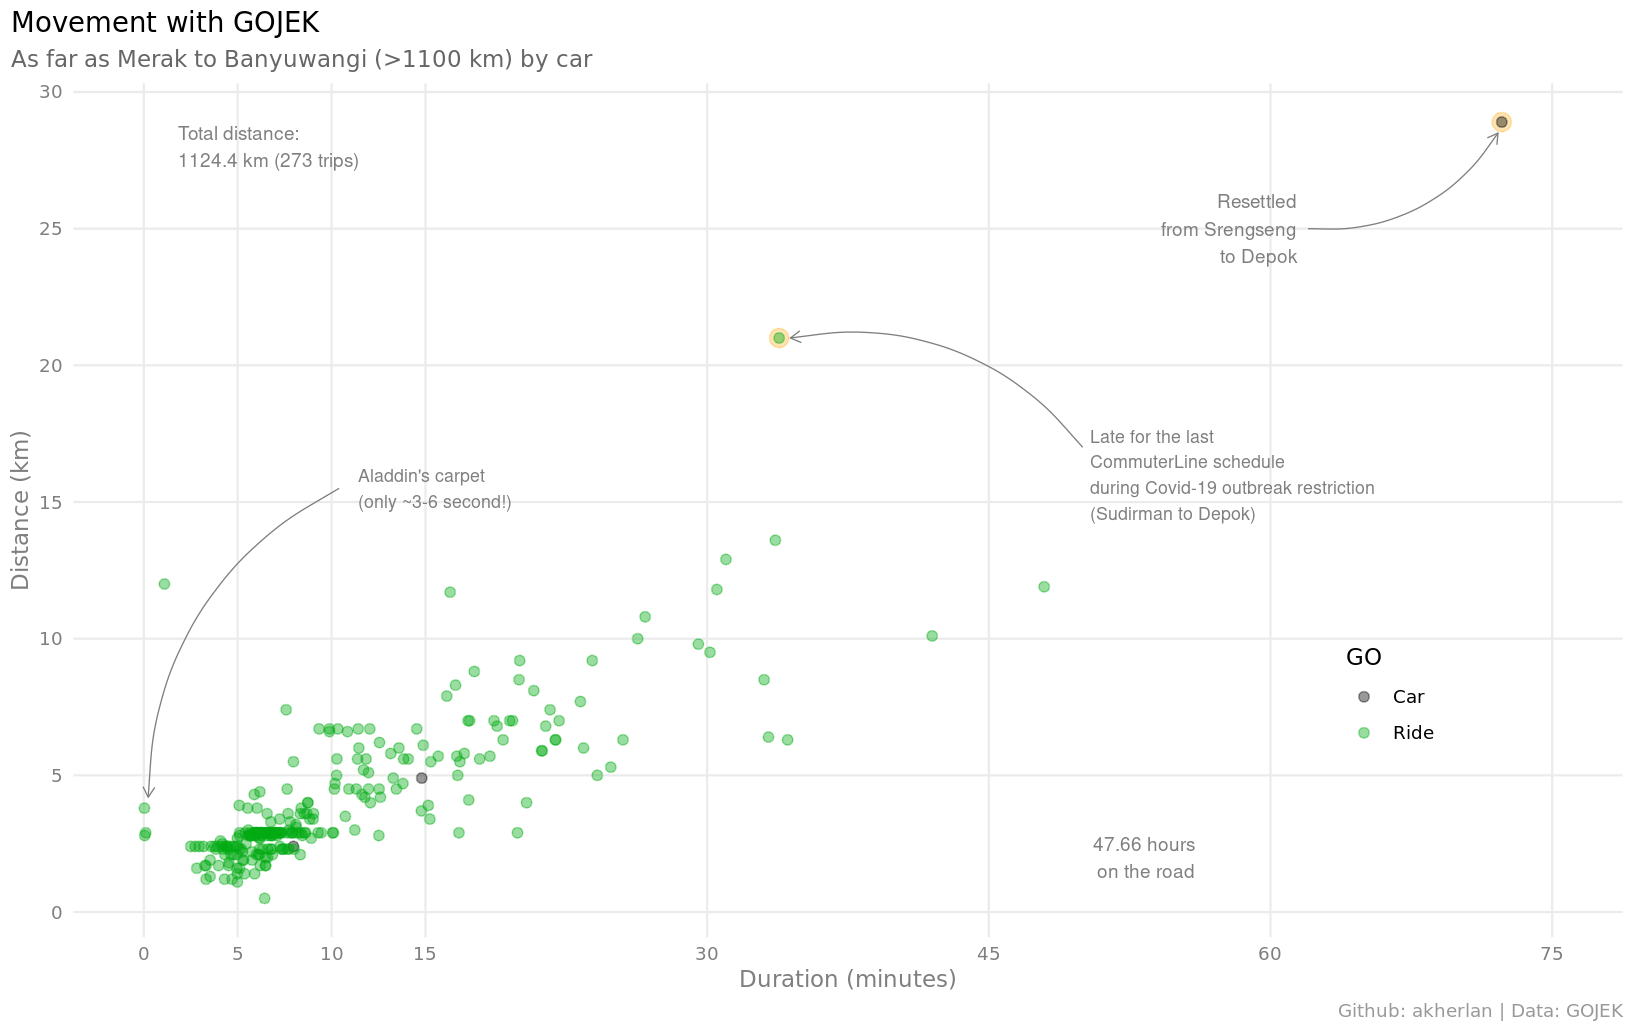
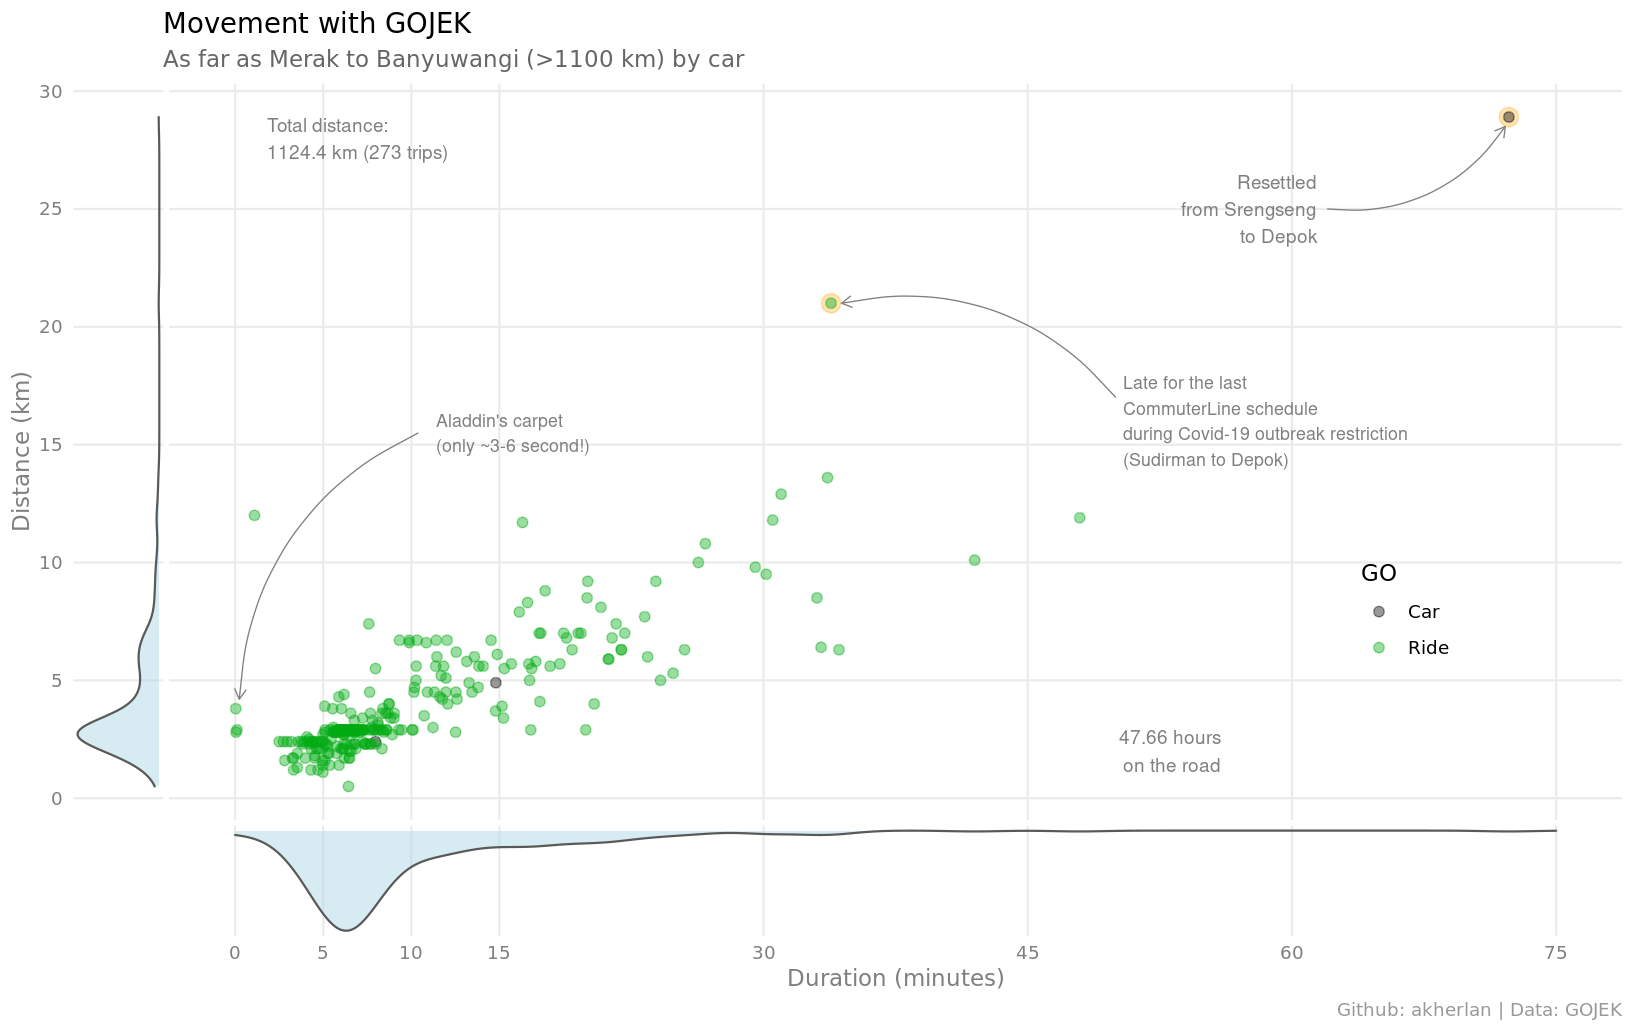
add density plot to distance graph + update readme

diff --git a/README.md b/README.md
@@ -4,23 +4,31 @@
 
 Data diimpor dari Gmail ke Google Sheets melalui Google Apps Script ([kode](code.gs)), kemudian diekspor ke format csv untuk diolah menggunakan R ([wrangler](1-wrangling.R)).
 
+Proyek personal ini terinspirasi dari [Mas Rasyid Ridha](http://rasyidridha.com/datague/data-gojek/) yang pernah mengolah data Gojek miliknya pribadi.
+
 ### Clock
 
 ![time with gojek](figs/clock.png)
 
-Saya tidak terlalu rutin menggunakan moda transporasi ini. Namun totalnya sudah hampir dua hari di jalanan sejak 2018 hingga saat tulisan ini ditulis.
+Saya tidak terlalu rutin menggunakan moda transporasi ini. Namun total lama waktu perjalanan saya sudah hampir dua harian terhitung sejak 2018 hingga saat tulisan ini ditulis.
+
+Waktu perjalanan paling sering adalah ketika malam hari antara pukul sembilanan hingga pukul sepuluhan, juga saat pagi menjelang siang.
 
 ### Distance
 
 ![movement with gojek](figs/distance_map.png)
 
-Dengan Gojek saya sudah melaju seolah-olah mulai dari ujung Barat pulau Jawa hingga ke ujung Timurnya.
+Dengan Gojek saya sudah melaju seolah-olah mulai dari ujung Barat pulau Jawa hingga ke ujung Timurnya. Saya paling sering melakukan perjalanan dengan jarak yang bisa dicapai dalam 5-10 menitan.
+
+Ada saatnya beberapa kali saya menempuh perjalanan yang cukup jauh yaitu ketika terlambat mengejar jadwal kereta terakhir dari Sudirman menuju Depok, juga ketika pindah kosan dari Srengseng Jakarta Barat kembali ke Depok.
+
+Namun ada beberapa data yang "aneh" dan tidak masuk akal karena durasi perjalanan hanya dalam 3-6 detik saja dalam jarak antara 3-5 kilometer.
 
 ### Cost
 
 ![expenses with gojek](figs/cost.png)
 
-Biaya ini belum termasuk dengan penggunaan GoBills untuk BPJS, pulsa, dll. apalagi dengan GoFood. Belum.
+Biaya ini belum termasuk dengan penggunaan GoTagihan (GoBills) untuk BPJS, pulsa, dll. apalagi dengan GoFood. Belum.
 
 ### Needs
 
